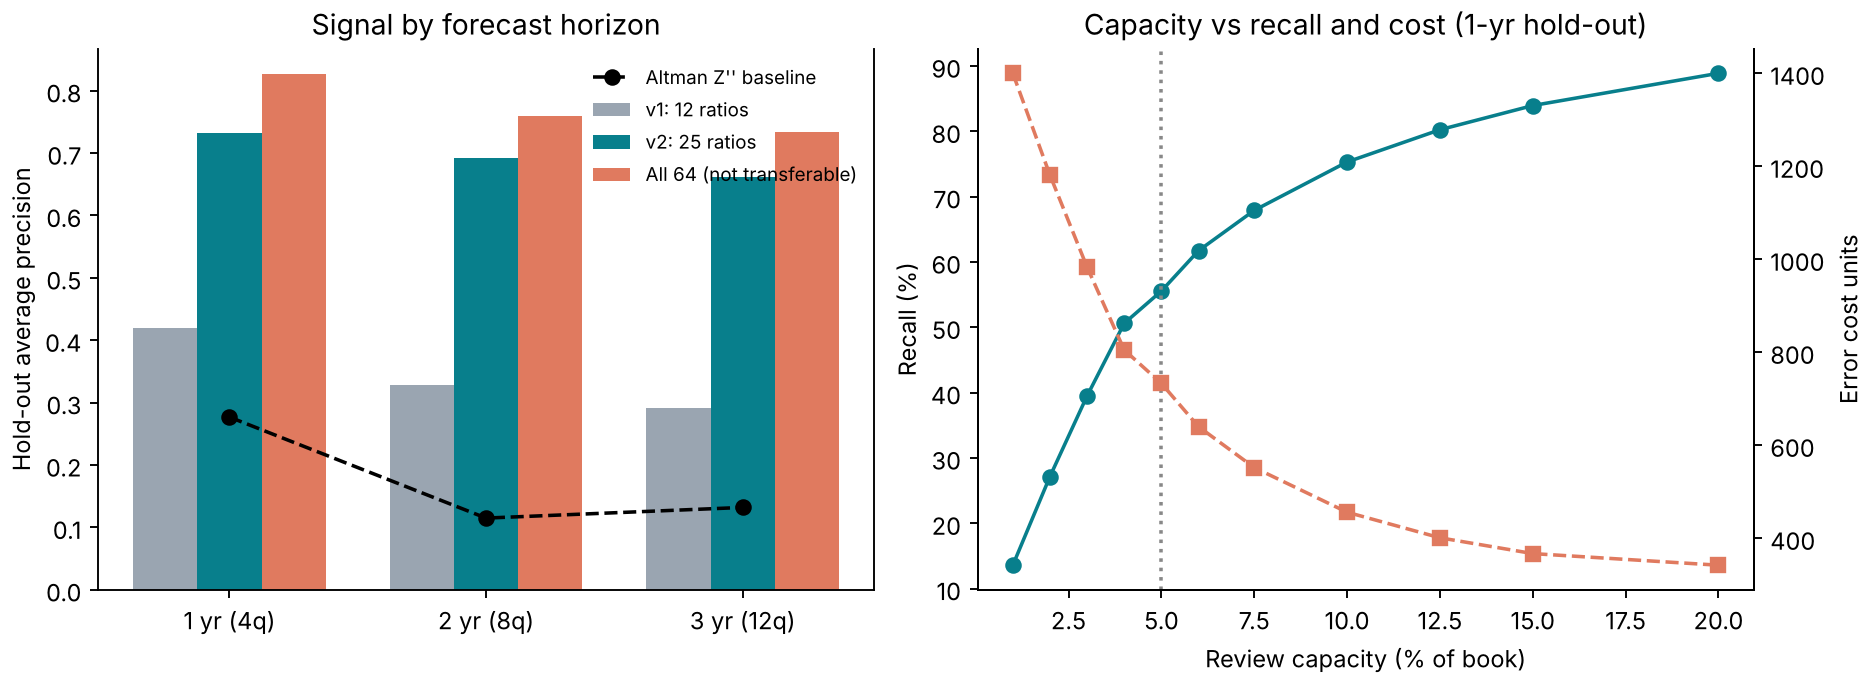
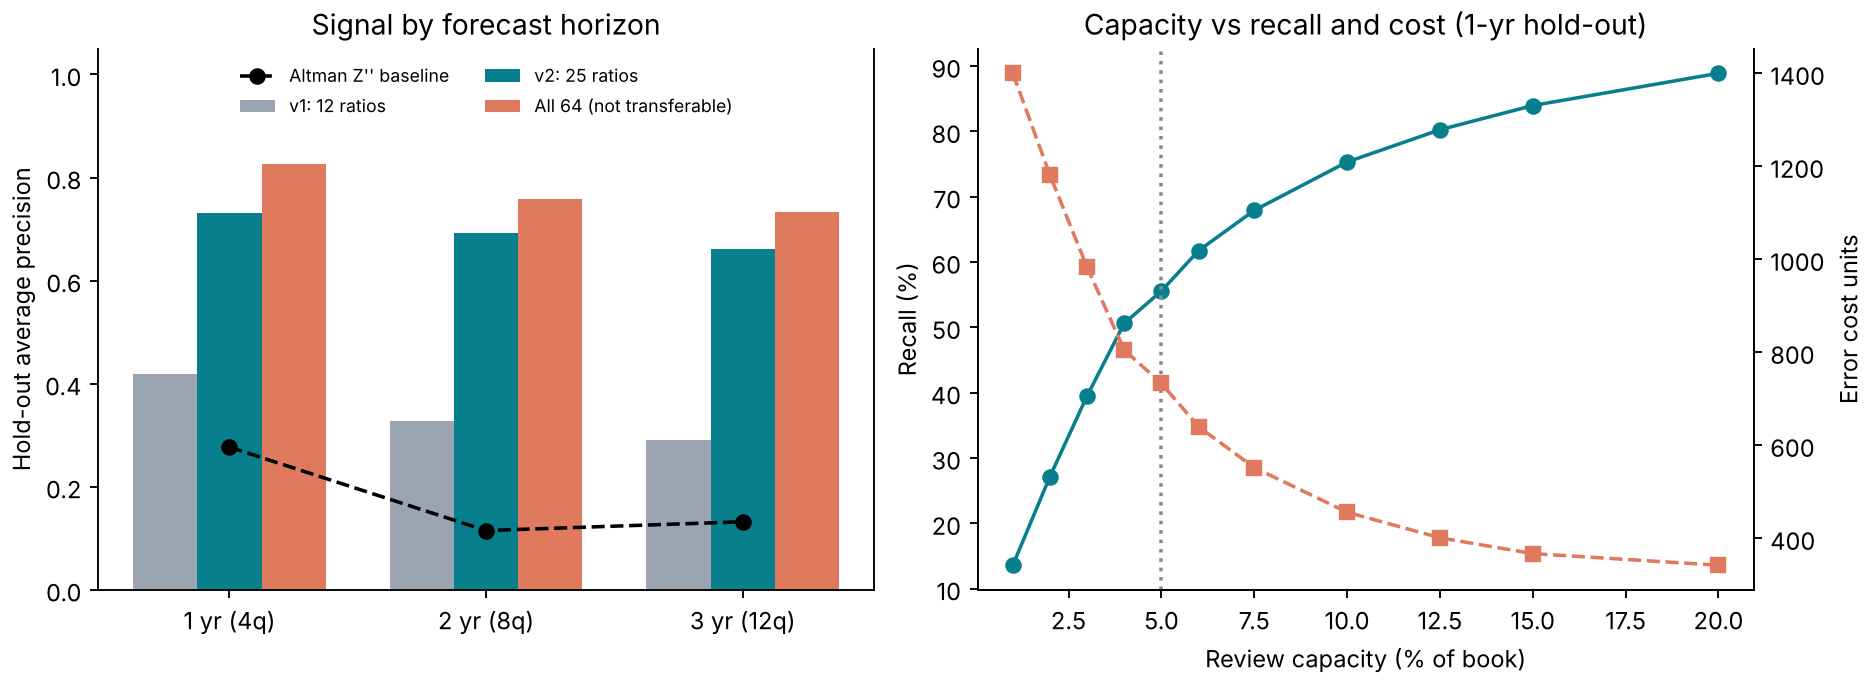
Fix benchmark chart legend placement
Claude-Session: https://claude.ai/code/session_01MhiAHhq86H5SB7oSbY3fiV

diff --git a/ews/benchmark_v2.py b/ews/benchmark_v2.py
@@ -206,7 +206,7 @@ def plots(summary, out):
     axes[0].plot(np.arange(len(hs)), zz, 'k--o', label="Altman Z'' baseline")
     axes[0].set_xticks(range(len(hs)), ['1 yr (4q)', '2 yr (8q)', '3 yr (12q)'])
     axes[0].set(ylabel='Hold-out average precision', title='Signal by forecast horizon')
-    axes[0].legend(fontsize=8, frameon=False)
+    axes[0].set_ylim(0, 1.05); axes[0].legend(fontsize=7.5, frameon=False, ncol=2, loc='upper center')
     cc = pd.read_csv(out / 'capacity_curve_1y.csv')
     axes[1].plot(cc.capacity_rate * 100, cc.recall * 100, 'o-', color='#087f8c', label='Recall %')
     ax2 = axes[1].twinx()
